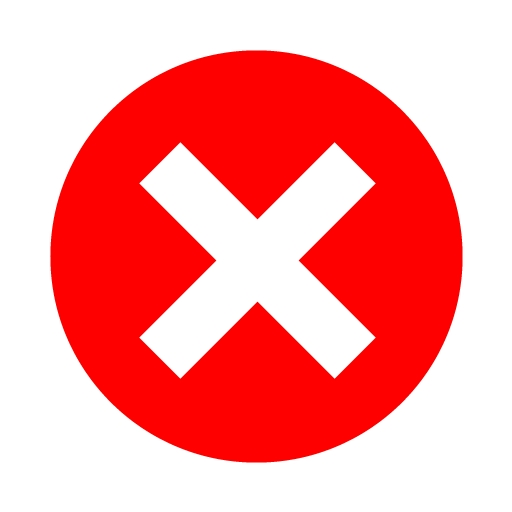
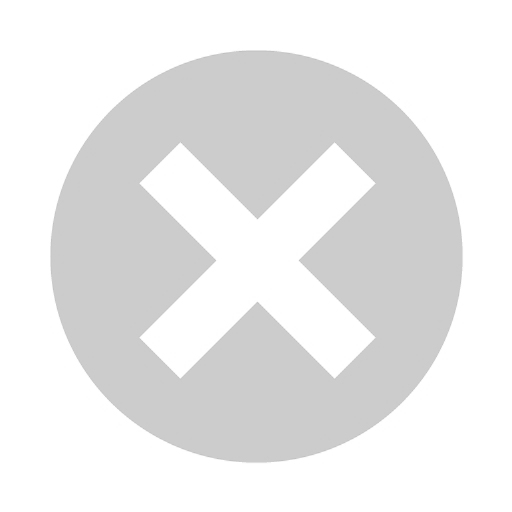
le

diff --git a/front-end-projector/base_angular_projector.js b/front-end-projector/base_angular_projector.js
@@ -41,7 +41,7 @@ angular.module("myapp", [])
                                 }
                             }
                             if(response.data[i].status == 1) {
-                                $("."+response.data[i].x + +response.data[i].y).append("<img class='img' src='nope.jpg'>");
+                                $("."+response.data[i].x + +response.data[i].y).append("<img class='img greyimg' src='nope.jpg'>");
                             }
                         }
                     }
